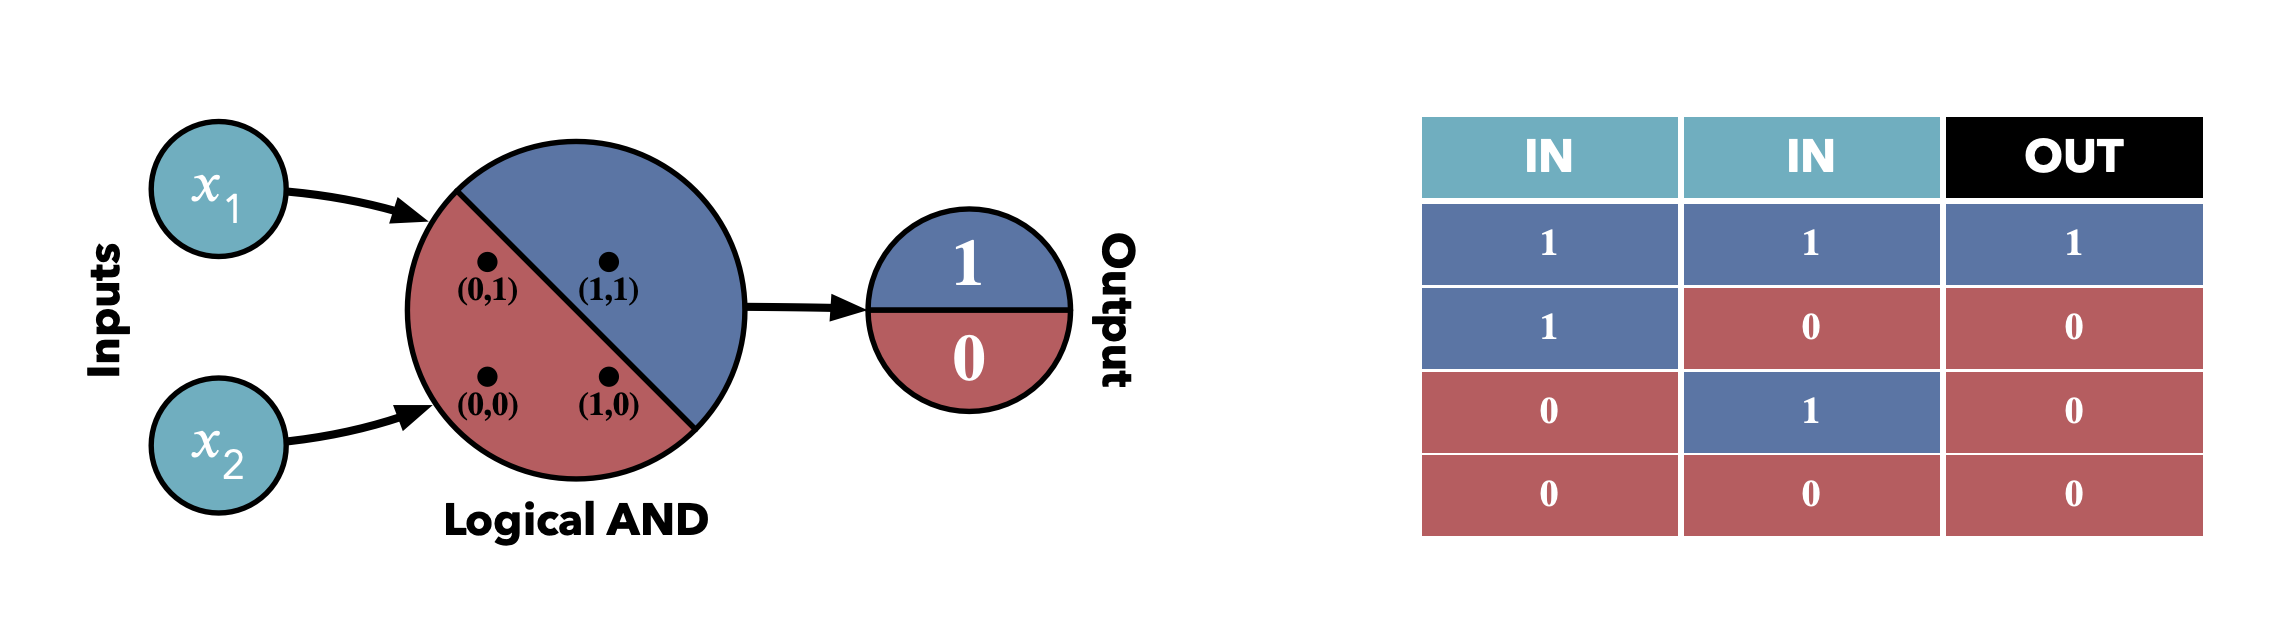
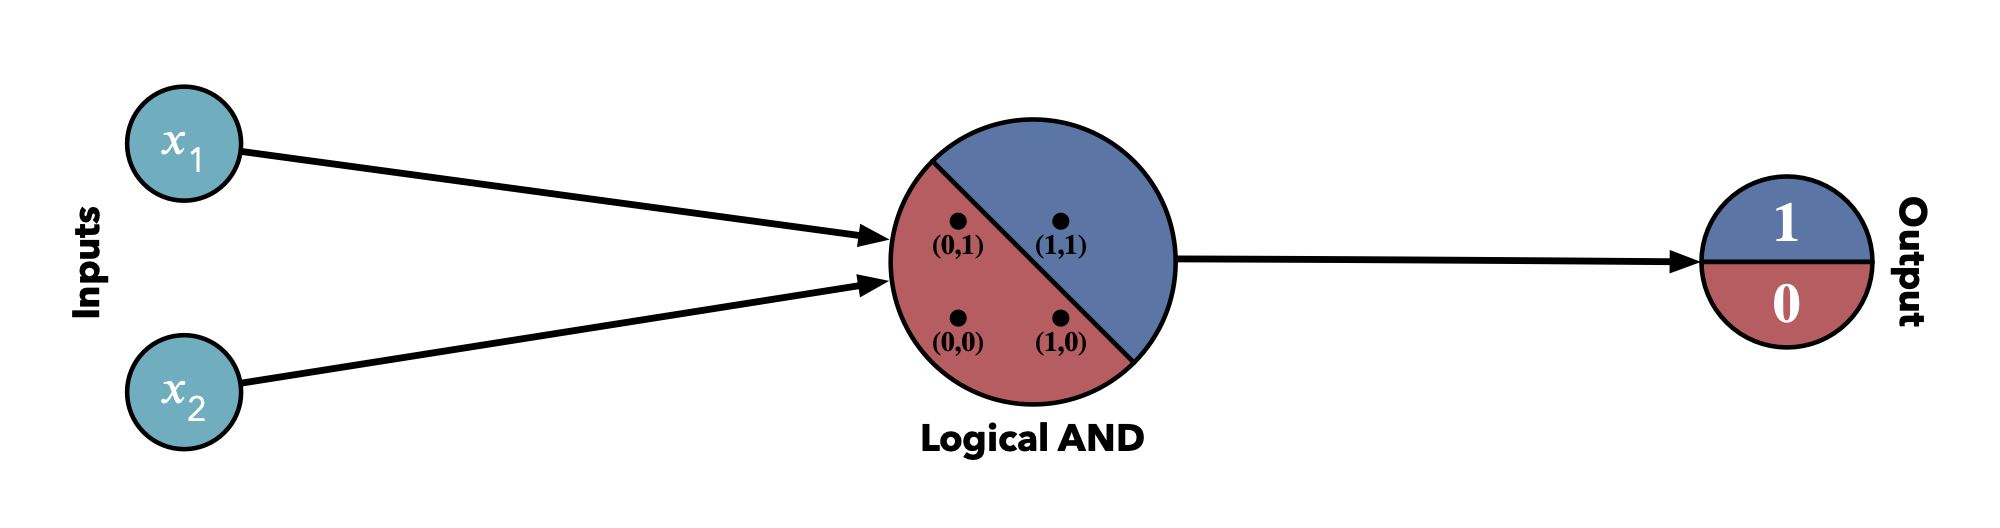
Update documentation

diff --git a/searchindex.js b/searchindex.js
@@ -1,1 +1,1 @@
-Search.setIndex({docnames:["index","machine-learning/reinforcement-learning/index","machine-learning/supervised-learning/index","machine-learning/supervised-learning/linear-regression","machine-learning/supervised-learning/perceptron-algorithm","machine-learning/unsupervised-learning/index"],envversion:{"sphinx.domains.c":1,"sphinx.domains.changeset":1,"sphinx.domains.citation":1,"sphinx.domains.cpp":1,"sphinx.domains.index":1,"sphinx.domains.javascript":1,"sphinx.domains.math":2,"sphinx.domains.python":1,"sphinx.domains.rst":1,"sphinx.domains.std":1,sphinx:56},filenames:["index.ipynb","machine-learning/reinforcement-learning/index.ipynb","machine-learning/supervised-learning/index.ipynb","machine-learning/supervised-learning/linear-regression.ipynb","machine-learning/supervised-learning/perceptron-algorithm.ipynb","machine-learning/unsupervised-learning/index.ipynb"],objects:{},objnames:{},objtypes:{},terms:{"00000000e":3,"05900000e":3,"09700000e":3,"0th":3,"19918532e":3,"25000000e":3,"29690000e":3,"2x_1":3,"2x_2":3,"30786141e":3,"32600000e":3,"35490000e":3,"3x_1":3,"4c72b0":4,"4th":3,"4x_2":3,"64b5cd":3,"6x_1x_2":3,"77000000e":3,"8172b3":[3,4],"86000000e":3,"86249920e":3,"89000000e":3,"94870000e":3,"95818772e":3,"96325160e":3,"98199191e":3,"function":4,"import":3,"long":3,"new":[0,2,3],"return":[3,4],"short":3,"super":[0,3],"true":[0,3],"try":[3,4],"while":3,AND:4,And:4,For:3,NOT:4,One:3,The:[3,4],Then:3,There:3,With:0,abbrevi:4,abl:3,about:[2,3,4],abov:[3,4],accord:3,account:3,accur:3,achiev:[3,4],across:3,action:1,activ:4,actual:3,add:[3,4],added:3,adding:3,addit:3,adjust:[3,4],afghanistan:3,aforement:3,after:3,again:[3,4],aim:3,albania:3,algeria:3,algorithm:[1,2],all:3,alpha:3,alreadi:3,also:[2,3,4],although:[2,4],amount:[3,5],analysi:0,andorra:3,angola:3,ani:3,anoth:3,apart:3,appli:3,around:3,arrai:[3,4],articl:0,assign:3,attend:0,avail:3,averag:3,avoid:3,axes:3,back:0,bad:3,balanc:3,base:0,basi:[3,4],basic:3,batch:3,becaus:3,becom:3,been:0,befor:3,begin:4,behind:3,being:3,belong:2,below:[3,4],best:[3,4],better:3,between:3,beyond:3,bia:4,big:3,binari:4,blue:4,bmi:3,bmi_and_life_expect:3,bold:3,book:0,boston_data:3,both:[0,3],box:3,broad:2,c44e52:[3,4],calcul:3,call:[3,4],can:[0,2,3,4],cancel:3,cartesian:3,cast:0,categori:[2,3],certain:1,chain:3,chang:[3,4],check:[0,3],choos:3,classif:[2,3,4],classifi:4,cleaner:3,close:3,closer:3,cluster:5,coef_:3,coeffici:3,collect:3,color:[3,4],column:3,combin:3,come:[3,4],comparison:3,complex:[0,3],comprehens:0,computation:3,concept:3,concern:4,confer:0,consid:[3,4],consider:3,constant:3,contain:3,content:0,conveni:3,convert:4,coordin:3,could:3,count:3,counterintuit:3,countri:3,cours:0,creat:[3,5],csv:3,da8bc3:[3,4],data:[0,2,3,5],dataset:[3,4,5],dd8452:3,deal:[3,4],decreas:3,deep:[0,4],deeper:0,defin:3,degre:3,denot:3,depend:3,depict:4,depth:0,deriv:4,descend:3,describ:[3,4],detail:3,detect:3,determin:3,deviat:3,diagram:4,did:4,differ:3,difficult:3,dimens:3,dimension:[3,4],direct:3,discuss:3,dive:0,divid:[2,4],doe:3,doesn:[3,4],doing:3,domain:0,dot:4,down:3,drastic:3,draw:3,drawn:3,driver:0,dure:0,each:3,earlier:3,easi:3,easili:3,effici:3,enabl:0,encount:0,encourag:0,end:4,enough:3,ensur:3,enter:3,equal:3,especi:3,etc:0,evalu:[3,4],exactli:3,exam:4,exampl:[4,5],expect:3,expens:3,explain:0,explan:3,explor:0,extra:3,extract:2,extrapol:4,extrem:3,fact:3,factor:3,fairer:3,fall:3,fals:3,far:3,faster:3,featur:5,feature_scaling_data:3,few:3,fewer:5,figsiz:3,figur:3,find:[3,4],first:3,fit:3,fit_intercept:3,fit_transform:3,follow:[3,4],fontsiz:3,fontweight:3,form:[3,4],format:3,formula:[3,4],found:3,frac:3,free:3,frequent:0,from:[0,1,2,3],fun:0,funtion:3,further:3,gener:3,geq:4,get:[0,3],give:3,goal:4,good:3,graph:[3,4],great:0,greatli:0,group:5,grow:0,guid:0,happen:3,harder:3,has:[0,3],hat:[3,4],have:[0,3],head:3,header:3,heavili:4,help:3,henc:3,here:4,high:[0,3],hous:3,how:[3,4],howev:3,huge:0,hyperplan:4,illustr:3,iloc:3,impact:3,imposs:4,includ:3,incorpor:3,incorrect:3,increas:3,independ:3,individu:3,ineffici:3,inform:0,initi:2,input:4,insid:4,inspir:0,instead:4,intercept:3,interpret:[3,4],introduc:3,involv:[3,4],irrespect:3,item:[2,5],joep:0,journei:0,june:0,just:[0,3],keep:3,kick:0,knowledg:0,known:2,label:[2,3,4,5],lambda:3,larg:5,larger:3,lasso:3,lasso_reg:3,last:3,later:3,ldot:4,lead:3,learn:[0,3,4],least:3,left:4,length:3,less:3,let:3,level:3,life:3,like:[0,3,4],limits_:3,lin_coef:3,lin_reg:3,line:3,linear:4,linear_model:3,linearli:4,linearregress:3,linspac:3,listen:0,load:3,load_boston:3,log:0,longer:3,lot:[0,3],lowest:3,m_1:3,m_2:3,m_3:3,m_i:3,m_n:3,machin:[0,3],made:[2,3,4],mai:[0,3],main:0,make:[3,4],mani:[0,2,3],manner:[0,3],match:3,math:4,mathemat:3,matplotlib:3,matrix:3,max:3,mentor:0,middl:3,min:3,mini:3,minim:3,minimum:3,mislead:3,model:[2,3,5],moment:0,more:[0,2,3],most:3,mostli:3,move:3,much:[3,4],multi:4,multipli:3,name:3,nearest:3,necessari:3,need:[3,4],neg:3,neighbor:3,neither:3,network:4,neural:4,next:3,node:4,non:[3,4],none:3,normali:3,notat:[3,4],number:[3,4],numer:[2,3,4],numpi:3,object:3,offset:3,often:2,one:[0,2,3],ones:5,onli:[3,4],onlin:4,optim:4,option:2,orang:3,origin:3,other:3,our:2,out:3,outcom:[3,4],outlier:3,output:3,outsid:2,over:[0,3],pad:3,panda:3,paramet:3,part:3,partial:3,pass:4,patient:4,pattern:[2,4],penalti:3,per:3,perform:3,persoon:0,pitfal:3,plane:3,pleas:0,plot:[3,4],plt:3,pod:0,podcast:0,point:[3,4],poli:3,poly_feat:3,polynomial_regression_data:3,polynomialfeatur:3,posit:3,possibl:3,power:3,practic:3,predefin:[4,5],predict:[2,3,4],predictor:3,preprocess:3,previou:3,price:3,print:3,problem:3,proceed:3,properti:3,prune:0,punish:3,purpl:4,purpos:3,put:3,pyplot:3,quadrat:3,qualiti:0,question:[2,4],random:3,rang:3,rate:3,reach:0,read:0,read_csv:3,realiti:3,realli:3,reason:3,receiv:[1,4],recov:4,red:4,reduc:[3,5],refer:[3,4],reg_coef:3,regress:2,regul:3,regularization_data:3,relat:3,relationship:3,relev:3,remain:3,remov:3,render:3,repres:3,requir:3,reshap:3,respect:3,result:3,retriev:3,reward:1,right:4,rightarrow:3,roughli:3,row:3,rule:3,same:3,sampl:3,sample_hous:3,saw:3,scaled_reg_coef:3,scaler:3,scatter:3,scienc:0,scratch:0,second:3,section:[3,4],see:3,seem:3,seen:3,select:3,sensit:3,separ:4,set:[2,3],setup:0,shape:0,shop:4,should:3,show:[3,4],similar:[3,5],simpl:4,simplest:[3,4],simplif:3,size:3,skeptic:0,sklearn:3,slope:3,small:3,smooth:3,solv:3,some:0,sometim:4,sourc:0,space:[3,4],spars:[0,3],speak:3,specif:[0,3],standardscal:3,start:[0,3],std:3,step:[3,4],still:[3,4],stochast:3,straight:3,structur:0,student:4,subset:3,sum:3,summar:3,supervis:[3,4],support:3,svm:3,system:3,tailor:0,take:[0,1,3,4],target:3,techniqu:3,tell:3,term:3,text:[3,4],textbf:[3,4],than:[2,3],thei:[0,3],them:3,theoret:3,therefor:3,thi:[0,3,4],third:3,those:[1,3],though:3,three:3,threshold:4,thu:3,tightli:3,till:3,time:[0,3,4],titl:3,togeth:3,topic:0,total:3,toward:3,train:[1,2,3,5],train_data:3,training_data:3,transfer:4,transform:3,tri:3,tune:3,two:[2,3,4],type:[2,3,4],typic:[3,4],udac:0,understand:0,unfairli:3,unit:3,unlabel:2,unlik:3,until:3,updat:[0,3],use:3,used:[1,2,3,4],useful:5,uses:3,using:[3,4],usual:3,vallei:3,valu:[2,3,4],var_i:3,var_x:3,vari:3,variabl:[3,4],vast:0,vector:[3,4],veri:3,vertic:3,via:0,video:0,visitor:4,visual:[3,4],w_1:[3,4],w_1x:3,w_1x_1:4,w_2:[3,4],w_2x_2:4,w_3:3,w_i:3,w_n:4,w_nx_n:4,wai:3,want:[0,3],weight:[3,4],weight_norm:3,weight_standard:3,well:[0,3],were:3,what:[3,4],when:[3,4,5],where:[0,3,4],which:[0,2,3,4],whole:3,wiki:0,without:3,work:[2,3],would:[3,4],wouldn:4,wrong:3,x_1:[3,4],x_2:[3,4],x_3:3,x_i:3,x_n:[3,4],x_plot:3,x_plot_poli:3,x_poli:3,x_predict:3,x_scale:3,xlabel:3,xor:4,y_i:3,year:3,yes:[2,4],ylabel:3,you:0,your:0,zero:3},titles:["Home","Reinforcement Learning","Supervised Learning","Linear Regression","Perceptron Algorithm","Unsupervised Learning"],titleterms:{"case":3,"function":3,Use:3,absolut:3,algorithm:[3,4],base:3,boundari:4,code:3,common:3,compar:3,contact:0,deriv:3,descent:3,dimens:4,distanc:3,error:3,exampl:3,featur:3,fit:4,gradient:3,higher:4,home:0,layer:4,learn:[1,2,5],line:4,linear:3,logic:4,mae:3,mean:3,method:3,metric:3,mse:3,multipl:3,normal:3,oper:4,optim:3,overview:[1,2,3,4,5],perceptron:4,polynomi:3,python:3,refer:0,regress:3,regular:3,reinforc:1,scale:3,simpl:3,singl:4,squar:3,standard:3,supervis:2,todo:4,unsupervis:5}})
+Search.setIndex({docnames:["index","machine-learning/reinforcement-learning/index","machine-learning/supervised-learning/index","machine-learning/supervised-learning/linear-regression","machine-learning/supervised-learning/perceptron-algorithm","machine-learning/unsupervised-learning/index"],envversion:{"sphinx.domains.c":1,"sphinx.domains.changeset":1,"sphinx.domains.citation":1,"sphinx.domains.cpp":1,"sphinx.domains.index":1,"sphinx.domains.javascript":1,"sphinx.domains.math":2,"sphinx.domains.python":1,"sphinx.domains.rst":1,"sphinx.domains.std":1,sphinx:56},filenames:["index.ipynb","machine-learning/reinforcement-learning/index.ipynb","machine-learning/supervised-learning/index.ipynb","machine-learning/supervised-learning/linear-regression.ipynb","machine-learning/supervised-learning/perceptron-algorithm.ipynb","machine-learning/unsupervised-learning/index.ipynb"],objects:{},objnames:{},objtypes:{},terms:{"00000000e":3,"05900000e":3,"09700000e":3,"0th":3,"19918532e":3,"25000000e":3,"29690000e":3,"2x_1":3,"2x_2":3,"30786141e":3,"32600000e":3,"35490000e":3,"3x_1":3,"4c72b0":4,"4th":3,"4x_2":3,"64b5cd":3,"6x_1x_2":3,"77000000e":3,"8172b3":[3,4],"86000000e":3,"86249920e":3,"89000000e":3,"94870000e":3,"95818772e":3,"96325160e":3,"98199191e":3,"function":4,"import":3,"long":3,"new":[0,2,3],"return":[3,4],"short":3,"super":[0,3],"true":[0,3],"try":[3,4],"while":3,And:4,For:3,NOT:4,One:3,The:[3,4],Then:3,There:[3,4],With:0,abbrevi:4,abl:3,about:[2,3,4],abov:[3,4],accord:3,account:3,accur:3,achiev:[3,4],across:3,action:1,activ:4,actual:3,add:[3,4],added:3,adding:3,addit:3,adjust:[3,4],afghanistan:3,aforement:3,after:3,again:[3,4],aim:3,albania:3,algeria:3,algorithm:[1,2],all:3,alpha:3,alreadi:3,also:[2,3,4],although:[2,4],amount:[3,5],analysi:0,andorra:3,angola:3,ani:3,anoth:3,apart:3,appli:3,around:3,arrai:[3,4],articl:0,assign:3,attend:0,avail:3,averag:3,avoid:3,axes:3,back:0,bad:3,balanc:3,base:0,basi:[3,4],basic:3,batch:3,becaus:3,becom:3,been:0,befor:3,begin:4,behav:4,behavior:4,behind:3,being:[3,4],belong:2,below:[3,4],best:[3,4],better:3,between:3,beyond:3,bia:4,big:3,binari:4,blue:4,bmi:3,bmi_and_life_expect:3,bold:3,book:0,boston_data:3,both:[0,3],box:3,broad:2,c44e52:[3,4],calcul:3,call:[3,4],can:[0,2,3,4],cancel:3,cartesian:3,cast:0,categori:[2,3],certain:1,chain:3,chang:[3,4],check:[0,3],choos:[3,4],chosen:4,classif:[2,3,4],classifi:4,cleaner:3,close:3,closer:3,cluster:5,coef_:3,coeffici:3,collect:3,color:[3,4],column:3,combin:[3,4],come:[3,4],comparison:3,complex:[0,3],comprehens:0,computation:3,concept:3,concern:4,confer:0,consid:[3,4],consider:3,constant:3,contain:3,content:0,conveni:3,convert:4,coordin:3,could:[3,4],count:3,counterintuit:3,countri:3,cours:0,creat:[3,5],csv:3,da8bc3:[3,4],data:[0,2,3,5],dataset:[3,4,5],dd8452:3,deal:[3,4],decreas:3,deep:[0,4],deeper:0,defin:3,degre:3,denot:3,depend:3,depict:4,depth:0,deriv:4,descend:3,describ:[3,4],detail:3,detect:3,determin:3,deviat:3,diagram:4,did:4,differ:3,difficult:3,dimens:3,dimension:[3,4],direct:3,discuss:3,dive:0,divid:[2,4],doe:3,doesn:[3,4],doing:3,domain:0,dot:4,down:3,drastic:3,draw:3,drawn:3,driver:0,dure:0,each:[3,4],earlier:3,easi:3,easili:3,effici:3,enabl:[0,4],encount:0,encourag:0,end:4,enough:3,ensur:3,enter:3,equal:3,especi:3,etc:0,evalu:[3,4],exactli:3,exam:4,exampl:[4,5],expect:[3,4],expens:3,explain:0,explan:3,explor:0,extra:3,extract:2,extrapol:4,extrem:3,fact:[3,4],factor:3,fairer:3,fall:3,fals:3,far:3,faster:3,featur:5,feature_scaling_data:3,few:3,fewer:5,figsiz:3,figur:3,find:[3,4],first:3,fit:3,fit_intercept:3,fit_transform:3,follow:[3,4],fontsiz:3,fontweight:3,form:[3,4],format:3,formula:[3,4],found:3,frac:3,free:3,frequent:0,from:[0,1,2,3],fun:0,funtion:3,further:3,gener:3,geq:4,get:[0,3],give:3,goal:4,good:3,graph:[3,4],great:0,greatli:0,group:5,grow:0,guid:0,happen:3,harder:3,has:[0,3],hat:[3,4],have:[0,3],head:3,header:3,heavili:4,help:3,henc:3,here:4,high:[0,3],hous:3,how:[3,4],howev:3,huge:0,hyperplan:4,illustr:3,iloc:3,impact:3,imposs:4,includ:3,incorpor:3,incorrect:3,increas:3,independ:3,individu:3,ineffici:3,inform:0,initi:2,input:4,insid:4,inspir:0,instead:4,intercept:3,interest:4,interpret:[3,4],introduc:3,involv:[3,4],irrespect:3,item:[2,5],joep:0,journei:0,june:0,just:[0,3,4],keep:3,kick:0,knowledg:0,known:2,label:[2,3,4,5],lambda:3,larg:5,larger:3,lasso:3,lasso_reg:3,last:3,later:3,ldot:4,lead:[3,4],learn:[0,3,4],least:3,left:4,length:3,less:3,let:3,level:3,life:3,like:[0,3,4],limits_:3,lin_coef:3,lin_reg:3,line:3,linear:4,linear_model:3,linearli:4,linearregress:3,linspac:3,listen:0,load:3,load_boston:3,log:0,longer:3,lot:[0,3],lowest:3,m_1:3,m_2:3,m_3:3,m_i:3,m_n:3,machin:[0,3],made:[2,3,4],mai:[0,3],main:0,make:[3,4],mani:[0,2,3],manner:[0,3],match:3,math:4,mathemat:3,matplotlib:3,matrix:3,max:3,mentor:0,middl:3,min:3,mini:3,minim:3,minimum:3,mislead:3,model:[2,3,4,5],moment:0,more:[0,2,3],most:3,mostli:3,move:3,much:[3,4],multi:4,multipl:4,multipli:3,name:3,nearest:3,necessari:3,need:[3,4],neg:3,neighbor:3,neither:3,network:4,neural:4,next:3,node:4,non:[3,4],none:3,normali:3,notat:[3,4],number:[3,4],numer:[2,3,4],numpi:3,object:3,offset:3,often:2,one:[0,2,3,4],ones:5,onli:[3,4],onlin:4,optim:4,option:[2,4],orang:3,origin:3,other:3,our:2,out:3,outcom:[3,4],outlier:3,output:[3,4],outsid:2,over:[0,3],pad:3,panda:3,paramet:3,part:3,partial:3,pass:4,patient:4,pattern:[2,4],penalti:3,per:3,perform:3,persoon:0,pick:4,pitfal:3,plane:3,pleas:0,plot:[3,4],plt:3,pod:0,podcast:0,point:[3,4],poli:3,poly_feat:3,polynomial_regression_data:3,polynomialfeatur:3,posit:3,possibl:[3,4],power:3,practic:3,predefin:[4,5],predict:[2,3,4],predictor:3,preprocess:3,previou:3,price:3,print:3,problem:3,proceed:3,properti:3,prune:0,punish:3,purpl:4,purpos:3,put:3,pyplot:3,quadrat:3,qualiti:0,question:[2,4],random:3,rang:3,rate:3,reach:0,read:0,read_csv:3,realiti:3,realli:3,reason:3,receiv:[1,4],recov:4,red:4,reduc:[3,5],refer:[3,4],reg_coef:3,regress:2,regul:3,regularization_data:3,relat:3,relationship:3,relev:3,remain:3,remov:3,render:3,repres:3,requir:3,reshap:3,respect:[3,4],result:[3,4],retriev:3,reward:1,right:4,rightarrow:3,roughli:3,row:3,rule:3,same:[3,4],sampl:3,sample_hous:3,saw:3,scaled_reg_coef:3,scaler:3,scatter:3,scienc:0,scratch:0,second:3,section:[3,4],see:3,seem:3,seen:3,select:3,sensit:3,separ:4,set:[2,3],setup:0,shape:0,shop:4,should:[3,4],show:[3,4],similar:[3,5],simpl:4,simplest:[3,4],simplif:3,size:3,skeptic:0,sklearn:3,slope:3,small:3,smooth:3,solv:3,some:[0,4],sometim:4,sourc:0,space:[3,4],spars:[0,3],speak:3,specif:[0,3],split:4,standardscal:3,start:[0,3],std:3,step:[3,4],still:[3,4],stochast:3,straight:3,structur:0,student:4,subset:3,sum:3,summar:3,supervis:[3,4],support:3,svm:3,system:3,tailor:0,take:[0,1,3,4],target:3,techniqu:3,tell:3,term:3,text:[3,4],textbf:[3,4],than:[2,3],thei:[0,3,4],them:3,theoret:3,therefor:3,thi:[0,3,4],third:3,those:[1,3],though:3,three:3,threshold:4,thu:3,tightli:3,till:3,time:[0,3,4],titl:3,togeth:3,topic:0,total:3,toward:3,train:[1,2,3,5],train_data:3,training_data:3,transfer:4,transform:3,tri:3,tune:3,two:[2,3,4],type:[2,3,4],typic:[3,4],udac:0,understand:0,unfairli:3,unit:3,unlabel:2,unlik:3,until:3,updat:[0,3],use:3,used:[1,2,3,4],useful:5,uses:3,using:[3,4],usual:3,vallei:3,valu:[2,3,4],var_i:3,var_x:3,vari:3,variabl:[3,4],vast:0,vector:[3,4],veri:3,vertic:3,via:0,video:0,visitor:4,visual:[3,4],w_1:[3,4],w_1x:3,w_1x_1:4,w_2:[3,4],w_2x_2:4,w_3:3,w_i:3,w_n:4,w_nx_n:4,wai:[3,4],want:[0,3],weight:[3,4],weight_norm:3,weight_standard:3,well:[0,3],were:3,what:[3,4],when:[3,4,5],where:[0,3,4],which:[0,2,3,4],whole:3,wiki:0,without:3,work:[2,3,4],would:[3,4],wouldn:4,wrong:3,x_1:[3,4],x_2:[3,4],x_3:3,x_i:3,x_n:[3,4],x_plot:3,x_plot_poli:3,x_poli:3,x_predict:3,x_scale:3,xlabel:3,xor:4,y_i:3,year:3,yes:[2,4],ylabel:3,you:0,your:0,zero:3},titles:["Home","Reinforcement Learning","Supervised Learning","Linear Regression","Perceptron Algorithm","Unsupervised Learning"],titleterms:{"case":3,"function":3,AND:4,Use:3,absolut:3,algorithm:[3,4],base:3,boundari:4,code:3,common:3,compar:3,contact:0,deriv:3,descent:3,dimens:4,distanc:3,error:3,exampl:3,featur:3,fit:4,gradient:3,higher:4,home:0,layer:4,learn:[1,2,5],line:4,linear:3,logic:4,mae:3,mean:3,method:3,metric:3,mse:3,multipl:3,normal:3,oper:4,optim:3,overview:[1,2,3,4,5],perceptron:4,polynomi:3,python:3,refer:0,regress:3,regular:3,reinforc:1,scale:3,simpl:3,singl:4,squar:3,standard:3,supervis:2,tabl:4,todo:4,truth:4,unsupervis:5}})

diff --git a/machine-learning/supervised-learning/perceptron-algorithm.html b/machine-learning/supervised-learning/perceptron-algorithm.html
@@ -176,7 +176,17 @@
         </li>
     
         <li class="nav-item toc-entry toc-h3">
-            <a href="#perceptrons-as-logical-operators" class="nav-link">Perceptrons as Logical Operators</a>
+            <a href="#perceptrons-as-logical-operators" class="nav-link">Perceptrons as Logical Operators</a><ul class="nav section-nav flex-column">
+                
+        <li class="nav-item toc-entry toc-h4">
+            <a href="#logical-and-operator" class="nav-link">Logical AND Operator</a>
+        </li>
+    
+        <li class="nav-item toc-entry toc-h4">
+            <a href="#logical-or-operator" class="nav-link">Logical OR Operator</a>
+        </li>
+    
+            </ul>
         </li>
     
         <li class="nav-item toc-entry toc-h3">
@@ -277,10 +287,33 @@ x = (x_1, x_2, \ldots, x_n)\)</span></p>
 </div>
 <div class="section" id="perceptrons-as-logical-operators">
 <h3>Perceptrons as Logical Operators<a class="headerlink" href="#perceptrons-as-logical-operators" title="Permalink to this headline">¶</a></h3>
-<p><img alt="Perceptrons" src="../../_images/perceptron_logical_and.png" /></p>
+<p>An interesting fact about perceptrons is that they can also be used to model some logical operators. This can be achieved by choosing the weights of the inputs in such a way that the boundary line will split the outputs in the way expected for the respective logical operator, for each of the possible input combinations for <span class="math notranslate nohighlight">\(x_1\)</span> and <span class="math notranslate nohighlight">\(x_2\)</span>, being <span class="math notranslate nohighlight">\(0\)</span> and <span class="math notranslate nohighlight">\(1\)</span>.</p>
+<div class="admonition note">
+<p class="admonition-title">Note</p>
+<p>The weight which are chosen in below sections for each operator are just one of the options which could work for the weights. There are multiple combinations of weights possible which lead to the same result.</p>
+</div>
+<div class="section" id="logical-and-operator">
+<h4>Logical AND Operator<a class="headerlink" href="#logical-and-operator" title="Permalink to this headline">¶</a></h4>
+<div class="margin sidebar">
+<p class="sidebar-title">AND Truth Table</p>
+<p>The boundary line in the perceptron should enable the following behavior:</p>
+<p><img alt="Perceptron - Logical AND - Truth Table" src="../../_images/perceptron_logical_and_table.png" /></p>
+</div>
+<p><img alt="Perceptron - Logical AND" src="../../_images/perceptron_logical_and.png" /></p>
+<p>The <em>logical AND operator</em> should behave as depicted in the <em>Logical Truth Table</em> which can be achieved picking the right weights for the boundary line.</p>
+<p>If we again consider the following formula:</p>
+<p><span class="math notranslate nohighlight">\(W * x + b = 0\)</span></p>
+<p>The following weights would lead to the expected output:</p>
+<p><span class="math notranslate nohighlight">\(w_1 = 1\)</span></p>
+<p><span class="math notranslate nohighlight">\(w_2 = 1\)</span></p>
+<p><span class="math notranslate nohighlight">\(b = 1\)</span></p>
+</div>
+<div class="section" id="logical-or-operator">
+<h4>Logical OR Operator<a class="headerlink" href="#logical-or-operator" title="Permalink to this headline">¶</a></h4>
 <div class="tip admonition">
 <p class="admonition-title">TODO</p>
-<p>Add diagrams and weights for AND, OR, NOT, XOR</p>
+<p>Add diagrams and weights for OR, NOT, XOR</p>
+</div>
 </div>
 </div>
 <div class="section" id="fitting-the-boundary-line">
